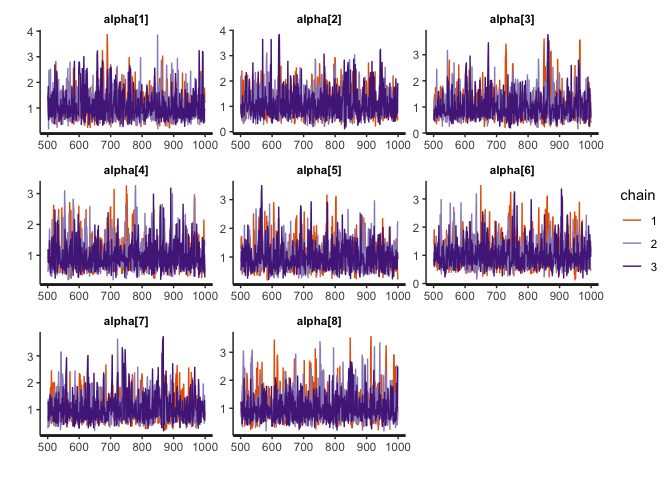
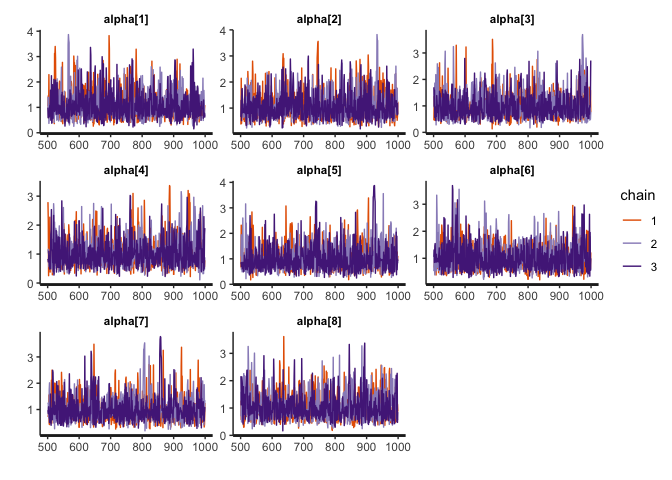
Modify README and vignette

diff --git a/README.md b/README.md
@@ -23,7 +23,10 @@ features of the bmggum package:
     full information maximum likelihood handles missing data.
 3.  Dimensions are allowed to correlate and the correlations are
     estimated.
-4.  Four functions (i.e., fcirt( ), extract( ), information( ), and
+4.  Statements are allowed to appear multiple times in different items
+    by specifying the required pairmap argument in the function
+    fcirt().  
+5.  Four functions (i.e., fcirt( ), extract( ), information( ), and
     bayesplot( )) are provided for model estimation, results extraction,
     item and test information computation, and Bayesian diagnostic
     plottings, respectively.
@@ -68,10 +71,20 @@ fcirt.Data
 #>  [9,]   NA   NA    1    1
 #> [10,]    1    2    1    1
 
-# 1.2 A column vector mapping each statement to each trait.
+# 1.2 A two-column data matrix: the first column is the statement number for statement s; the second column is the statement number for statement t.
+pairmap <- c(1,3,5,7,2,4,6,8)
+pairmap <- matrix(pairmap,ncol = 2)
+pairmap
+#>      [,1] [,2]
+#> [1,]    1    2
+#> [2,]    3    4
+#> [3,]    5    6
+#> [4,]    7    8
+
+# 1.3 A column vector mapping each statement to each trait.
 ind <- c(1,2,1,2,1,2,2,1)
 
-# 1.3 A three-column matrix containing initial values for the three statement parameters (alpha, delta, tau) respectively. If using the direct MUPP estimation approach, 1 and -1 for alphas and taus are recommended and -1 or 1 for deltas are recommended depending on the signs of the statements. If using the two-step estimation approach, pre-estimated statement parameters are used as the initial values. The R package **bmggum** (Tu et al., 2021) can be used to estimate statement parameters for the two-step approach. 
+# 1.4 A three-column matrix containing initial values for the three statement parameters (alpha, delta, tau) respectively. If using the direct MUPP estimation approach, 1 and -1 for alphas and taus are recommended and -1 or 1 for deltas are recommended depending on the signs of the statements. If using the two-step estimation approach, pre-estimated statement parameters are used as the initial values. The R package **bmggum** (Tu et al., 2021) can be used to estimate statement parameters for the two-step approach. 
 ParInits <- c(1, 1, 1, 1, 1, 1, 1, 1, 1, -1, 1, 1, 1, -1, 1, 1, -1, -1, -1, -1, -1, -1, -1, -1)
 ParInits <- matrix(ParInits, ncol = 3)
 ParInits
@@ -86,7 +99,7 @@ ParInits
 #> [8,]    1    1   -1
 
 ## Step 2: Fit the MUPP model
-mod <- fcirt(fcirt.Data=fcirt.Data, ind=ind, ParInits=ParInits, iter=1000)
+mod <- fcirt(fcirt.Data=fcirt.Data, pairmap=pairmap, ind=ind, ParInits=ParInits, iter=1000)
 
 ## Step 3: Extract the estimated results 
 # 3.1 Extract the theta estimates 
@@ -99,22 +112,24 @@ theta <- t(theta)
 # theta estimates in p*trait matrix format
 theta
 #>               [,1]         [,2]
-#>  [1,]  0.031983911 -0.040507535
-#>  [2,]  0.031117462  0.007010284
-#>  [3,] -0.059953205  0.030518524
-#>  [4,] -0.051325147  0.040002677
-#>  [5,]  0.015184621  0.026122820
-#>  [6,]  0.023052726 -0.021688658
-#>  [7,] -0.051152959 -0.001259698
-#>  [8,] -0.004859978  0.057635574
-#>  [9,]  0.009258872  0.033419928
-#> [10,] -0.035629044  0.034475004
+#>  [1,] -0.074983964  0.024690717
+#>  [2,]  0.022404742 -0.007263735
+#>  [3,]  0.023674552  0.016694761
+#>  [4,]  0.008164025 -0.036715749
+#>  [5,] -0.012991039 -0.052694390
+#>  [6,] -0.025219165 -0.029850317
+#>  [7,]  0.035445771 -0.019566042
+#>  [8,] -0.045212003  0.035435886
+#>  [9,]  0.028803043  0.011681336
+#> [10,] -0.012875164 -0.029724370
 # 3.2 Extract the tau estimates
 tau <- extract(x=mod, pars='tau')
 tau <- tau[,1]
 tau
-#>    tau[1]    tau[2]    tau[3]    tau[4]    tau[5]    tau[6]    tau[7]    tau[8] 
-#> -1.987001 -1.003432 -1.241766 -1.399681 -1.778702 -1.036536 -1.804697 -1.077218
+#>     tau[1]     tau[2]     tau[3]     tau[4]     tau[5]     tau[6]     tau[7] 
+#> -2.0252600 -0.9630989 -1.2552869 -1.3946850 -1.8149567 -1.1159833 -1.8051137 
+#>     tau[8] 
+#> -1.0604982
 #3.3 Extract the estimates of the correlations among dimensions
 cor <- extract(x=mod, pars='cor')
 
@@ -137,9 +152,9 @@ bayesplot(x=mod, pars='alpha', plot='trace', inc_warmup=FALSE)
 # 5.1 Obtain item information for item 1-3
 OII <- information(x=mod, approach="direct", information="item", items=1:3)
 OII
-#> [1] 0.4092903 0.4042939 0.3877951
+#> [1] 0.3927859 0.4133877 0.3924874
 # 5.2 Obtain test information 
 OTI <- information(x=mod, approach="direct", information="test")
 OTI
-#> [1] 1.608404
+#> [1] 1.589694
 ```
